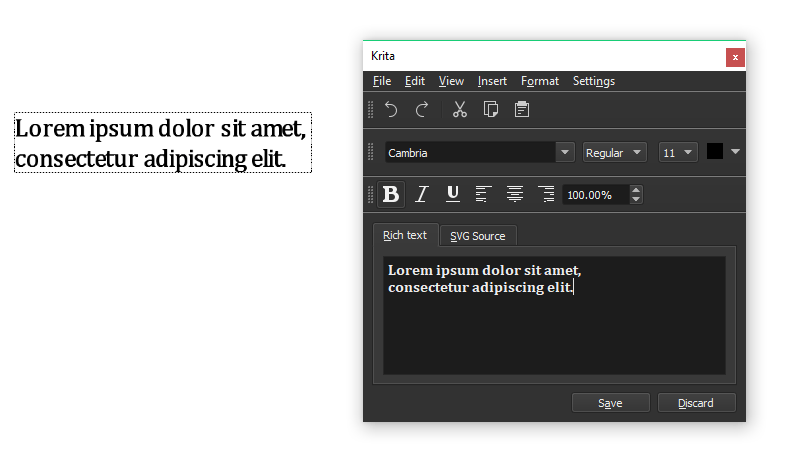
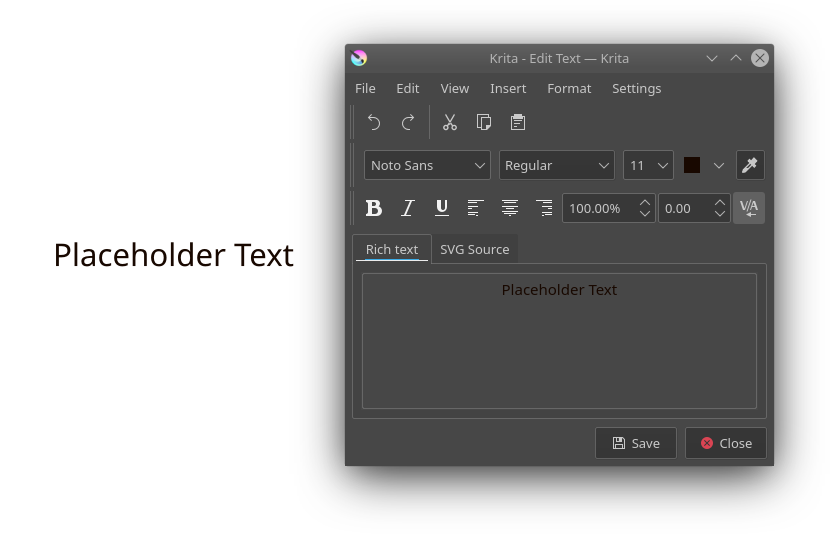
Update editor screenshot and description
Color picker and letter spacing were added earlier.
Kerning toggle was added in 4.4.2.

diff --git a/reference_manual/tools/text.rst b/reference_manual/tools/text.rst
@@ -131,6 +131,8 @@ Format
         Center the selected paragraph.
     Align Right :kbd:`Ctrl + Alt + R`
         Align the selected paragraph to the right.
+    Kerning
+        Toggles kerning for selected text.
 
 Settings
 
